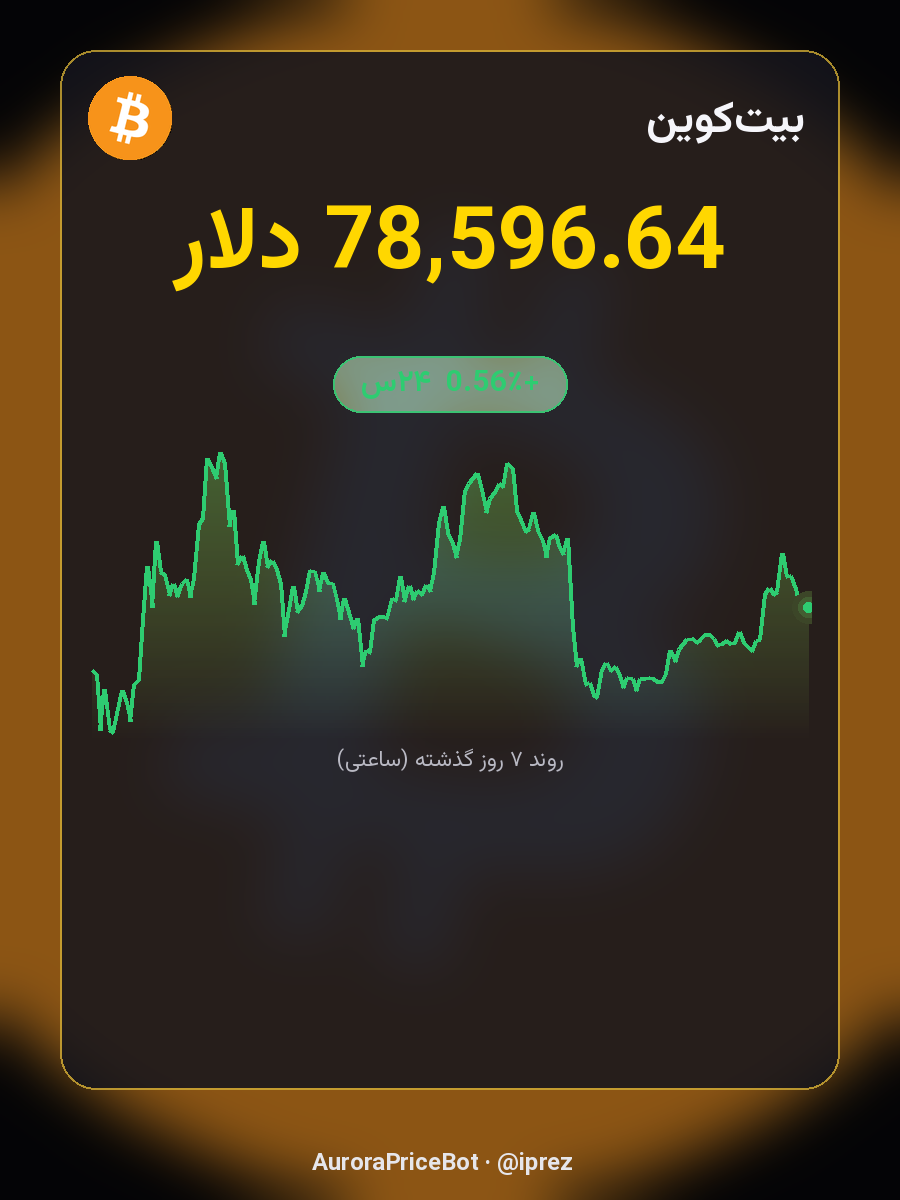
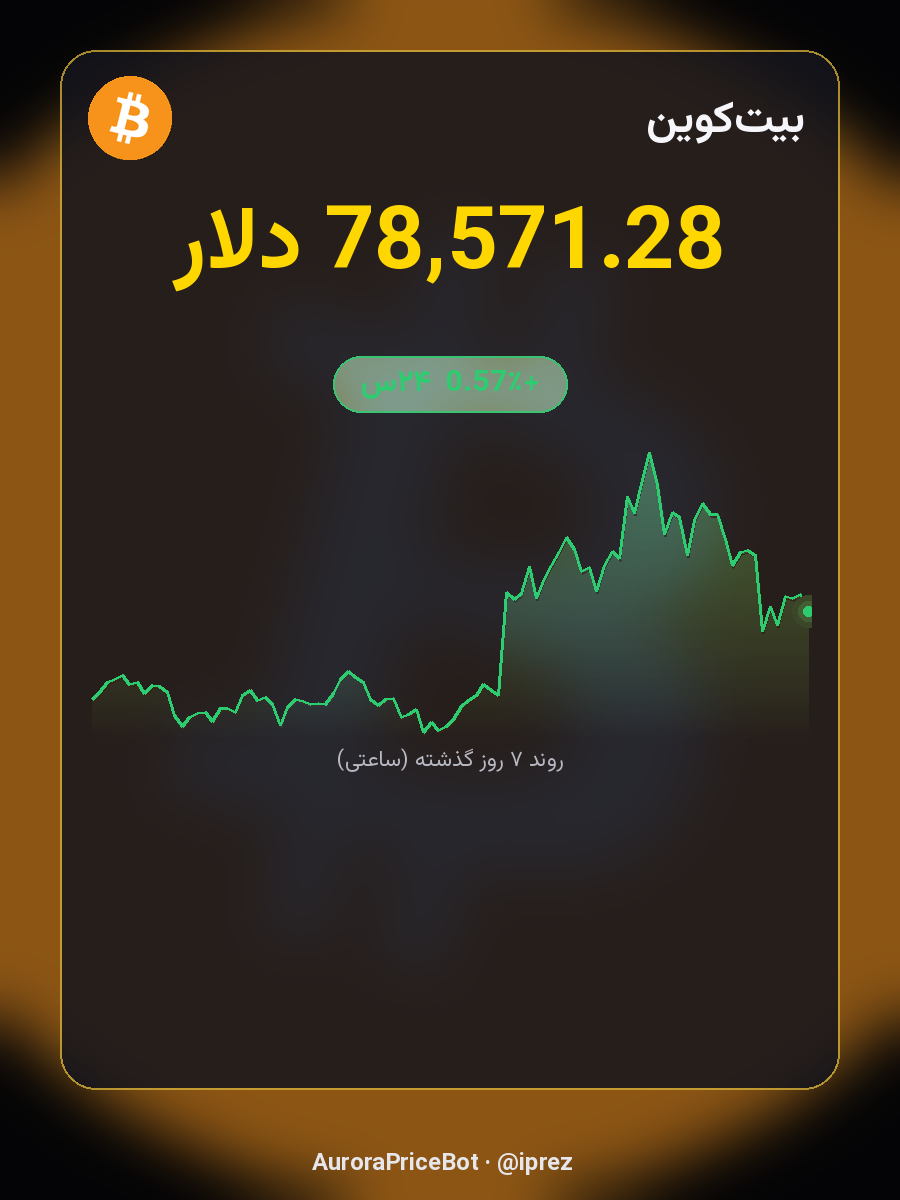
v4: wide centered chart + live minute-level history for Iran market
- Chart: wide rectangle, centered, subtle bg, smooth line + shadow, glowing endpoint
- Live minute history: bot self-records snapshots (hist/local_*.json, up to 60 pts/24h)
- Smart label: 'روند 28 دقیقه اخیر (زنده)' when local data >= 10 pts, else daily/official
- Crypto default: 15m klines × 96 = full 24h

diff --git a/datafeeds.py b/datafeeds.py
@@ -83,7 +83,7 @@ def tgju_history(tgju_id: str, days: int = 14) -> List[float]:
 
 # ---------------- Binance ----------------
 
-def binance_klines(symbol: str, interval: str = "1h", limit: int = 168) -> List[float]:
+def binance_klines(symbol: str, interval: str = "15m", limit: int = 96) -> List[float]:
     """کندلهای اخیر — close prices، قدیمی→جدید."""
     def fetch():
         try:
@@ -170,3 +170,81 @@ def get_banner_data(code: str) -> Optional[dict]:
         }
 
     return None
+
+
+# ---------------- Local minute history (self-recorded) ----------------
+import json as _json
+import os as _os
+
+HIST_DIR = "hist"
+TTL_MIN = 60  # نگهداشتن ۶۰ نقطهی اخیر
+
+
+def _hist_path(key: str) -> str:
+    _os.makedirs(HIST_DIR, exist_ok=True)
+    safe = re.sub(r"[^a-zA-Z0-9_-]", "_", key)
+    return _os.path.join(HIST_DIR, f"{safe}.json")
+
+
+def record_snapshot(code: str, tgju_id: str = None, binance_sym: str = None):
+    """قیمت لحظهای را در تاریخچهی محلی ثبت میکند — هر بار که بنر خواسته شه."""
+    import time as _t
+    path = _hist_path(f"local_{code}")
+    try:
+        price = None
+        if tgju_id:
+            p, _, _ = tgju_quote(tgju_id)
+            price = p // 10 if p else None  # تومان
+        elif binance_sym:
+            try:
+                price = float(_get(f"https://api.binance.com/api/v3/ticker/price?symbol={binance_sym}").json()["price"])
+            except Exception:
+                price = None
+        if not price:
+            return
+        now = int(_t.time())
+        data = []
+        if _os.path.exists(path):
+            try:
+                data = _json.load(open(path))
+            except Exception:
+                data = []
+        data.append([now, price])
+        # حذف نقاط قدیمیتر از ۶۰ نقطه یا ۲۴ ساعت
+        data = [x for x in data if now - x[0] < 86400][-60:]
+        _json.dump(data, open(path, "w"))
+    except Exception as e:
+        log.warning("record_snapshot %s: %s", code, e)
+
+
+def local_history(code: str) -> list:
+    """تاریخچهی محلی ثبتشده (may be short)."""
+    path = _hist_path(f"local_{code}")
+    try:
+        return _json.load(open(path))
+    except Exception:
+        return []
+
+
+def smart_history(code: str, tgju_id: str = None, binance_sym: str = None) -> Tuple[list, str]:
+    """
+    هوشمندانهترین تاریخچه:
+    - اگر تاریخچهی محلی ≥ ۱۰ نقطه → همون (برچسب: 'X دقیقه اخیر')
+    - وگرنه تاریخچهی رسمی (TGJU روزانه / Binance ساعتی)
+    خروجی: (مقادیر، برچسب)
+    """
+    local = local_history(code)
+    if len(local) >= 10:
+        span_min = round((local[-1][0] - local[0][0]) / 60)
+        label = f"روند {span_min} دقیقه اخیر (زنده)"
+        return [x[1] for x in local], label
+    # fallback رسمی
+    if tgju_id:
+        hist = tgju_history(tgju_id)
+        if hist:
+            return [x / 10 for x in hist], "روند ۱۴ روز گذشته"
+    if binance_sym:
+        k = binance_klines(binance_sym)
+        if k:
+            return k, "روند ۲۴ ساعت گذشته"
+    return [], ""

diff --git a/banner.py b/banner.py
@@ -111,8 +111,9 @@ def _area_chart(history, w: int, h: int, up: bool) -> Image.Image:
     md.polygon(pts + [(w - 4, h), (4, h)], fill=255)
     img.paste(grad, (0, 0), mask)
 
-    # خط اصلی (ضخیمتر با چند pass)
-    d.line(pts, fill=line_color + (255,), width=4, joint="curve")
+    # خط اصلی — smooth و با سایه
+    d.line([(x+1, y+2) for x, y in pts], fill=(0,0,0,60), width=2, joint="curve")
+    d.line(pts, fill=line_color + (255,), width=3, joint="curve")
 
     # نقطهی آخر با هاله
     ex, ey = pts[-1]
@@ -131,10 +132,33 @@ def _fmt(v) -> str:
     return s
 
 
+def _code_ids(code: str):
+    """(tgju_id، binance_symbol) برای کد."""
+    std = catalog.resolve(code)
+    if not std:
+        return None, None
+    if std in catalog.FIAT:
+        return catalog.FIAT[std][2], None
+    if std in catalog.GOLD:
+        return catalog.GOLD[std][1], None
+    if std in catalog.STABLE:
+        return catalog.STABLE[std][1], None
+    if std in catalog.CRYPTO:
+        return None, catalog.CRYPTO[std][1]
+    return None, None
+
+
 def render_banner(code: str) -> Optional[bytes]:
     data = datafeeds.get_banner_data(code)
     if not data or not data.get("price"):
         return None
+
+    tg_id, b_sym = _code_ids(code)
+    # ثبت snapshot زنده (برای تاریخچهی دقیقهای آینده)
+    if tg_id:
+        datafeeds.record_snapshot(catalog.resolve(code), tgju_id=tg_id)
+    elif b_sym:
+        datafeeds.record_snapshot(catalog.resolve(code), binance_sym=b_sym)
 
     price = data["price"]
     pct = data.get("change_pct")
